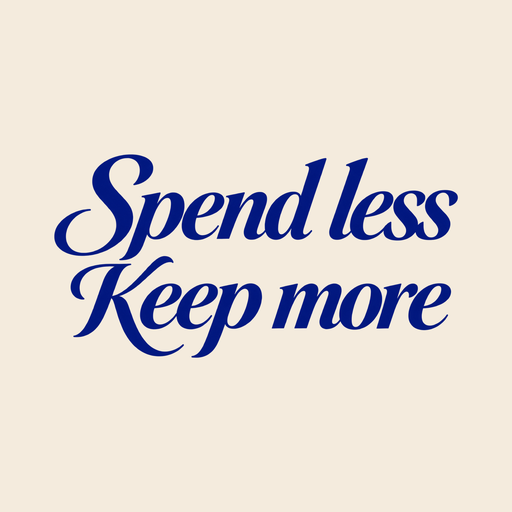
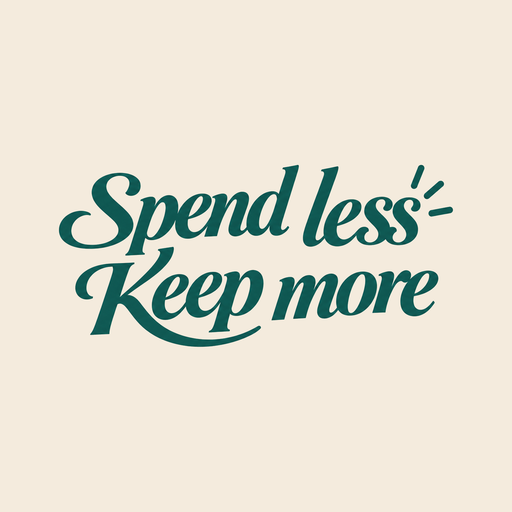
메인 컬러를 네이비(#02007D)에서 틸(#105753)로 전면 교체, 로고를 새 틸 워드마크로 변경
- tailwind primary 팔레트 교체: DEFAULT #105753, light #E2EBEA, dark #082B29
  (light/dark는 기존 네이비 팔레트와 동일한 비율로 새로 계산)
- 하드코딩된 헥스 컬러(#02007D/#01003D/#E3E2F8)를 쓰던 19개 파일 전부 새 컬러로 교체
  (아이콘 tint, 아바타 팔레트, 차트 기본색, ActivityIndicator 등)
- 새 로고 파일("보수가계부 메인 로고.png")에서 투명 배경 워드마크를 새로 추출해
  brand-tagline.png / brand-tagline-white.png, 앱 아이콘·스플래시·안드로이드
  적응형 아이콘·파비콘 세트를 전부 재생성 (로고 비율이 달라져 관련 파일들의
  가로세로 비율 상수도 619/1295로 갱신)

로그인 없이 접근 가능한 웰컴/로그인/회원가입/약관 페이지와 파비콘은 브라우저로 직접
렌더링해 확인했다. calendar/통계/예산/자산/설정/어드민 등 로그인 이후 화면은 프로덕션
API라 실제 로그인 없이 확인이 불가능해서, tailwind 토큰 치환과 각 파일의 하드코딩
컬러 치환 결과를 코드 레벨로 전수 확인하는 것으로 대신했다.

Claude-Session: https://claude.ai/code/session_0192u1Aw5YHBEf88JtvH6CKD

Changed region(s): [[0.0938, 0.2812, 0.9062, 0.7188]]

diff --git a/src/app/admin/(dashboard)/households/[id].tsx b/src/app/admin/(dashboard)/households/[id].tsx
@@ -14,7 +14,7 @@ import { addMonths, formatMonthLabel, toDateKey } from '@/lib/calendar';
 import { formatKrw, formatSignedKrw } from '@/lib/format';
 
 const ROLE_LABEL: Record<string, string> = { OWNER: '오너', MEMBER: '멤버' };
-const AVATAR_PALETTE = ['#02007D', '#E07A5F', '#2f9e44', '#3b82f6', '#a855f7', '#f59e0b'];
+const AVATAR_PALETTE = ['#105753', '#E07A5F', '#2f9e44', '#3b82f6', '#a855f7', '#f59e0b'];
 
 function avatarColor(seed: number) {
   return AVATAR_PALETTE[seed % AVATAR_PALETTE.length];
@@ -22,7 +22,7 @@ function avatarColor(seed: number) {
 
 function CategoryBar({ item, max }: { item: AdminCategoryTotal; max: number }) {
   const pct = max > 0 ? (item.total / max) * 100 : 0;
-  const barColor = item.categoryColor ?? (item.type === 'INCOME' ? '#2f9e44' : '#02007D');
+  const barColor = item.categoryColor ?? (item.type === 'INCOME' ? '#2f9e44' : '#105753');
   return (
     <View className="gap-1.5">
       <View className="flex-row items-baseline justify-between gap-2">
@@ -125,7 +125,7 @@ export default function AdminHouseholdDetailScreen() {
   if (isLoading || !data) {
     return (
       <View className="flex-1 items-center justify-center bg-slate-100">
-        <ActivityIndicator color="#01003D" />
+        <ActivityIndicator color="#082B29" />
       </View>
     );
   }
@@ -147,7 +147,7 @@ export default function AdminHouseholdDetailScreen() {
         <View className="gap-4 rounded-2xl bg-white p-5 shadow-sm">
           <View className="flex-row items-center gap-3">
             <View className="h-12 w-12 items-center justify-center rounded-full bg-primary-light">
-              <Ionicons name="home" size={20} color="#02007D" />
+              <Ionicons name="home" size={20} color="#105753" />
             </View>
             <View className="gap-0.5">
               <Text className="text-xl font-bold text-slate-900">{data.name}</Text>
@@ -207,7 +207,7 @@ export default function AdminHouseholdDetailScreen() {
             </View>
 
             {transactionsLoading ? (
-              <ActivityIndicator color="#01003D" />
+              <ActivityIndicator color="#082B29" />
             ) : (
               <CalendarGrid
                 year={year}

diff --git a/src/app/admin/(dashboard)/_layout.tsx b/src/app/admin/(dashboard)/_layout.tsx
@@ -9,7 +9,7 @@ import { useGoHome } from '@/lib/useGoHome';
 import { useAdminAuthStore } from '@/store/adminAuthStore';
 import { useAuthStore } from '@/store/authStore';
 
-const TAGLINE_ASPECT_RATIO = 803 / 1442;
+const TAGLINE_ASPECT_RATIO = 619 / 1295;
 
 const NAV: {
   href: '/admin' | '/admin/users' | '/admin/households' | '/admin/feature-requests';
@@ -91,7 +91,7 @@ export default function AdminDashboardLayout() {
                         key={item.href}
                         onPress={() => router.push(item.href)}
                         className={`flex-row items-center gap-1.5 rounded-full px-4 py-2 ${active ? 'bg-white' : ''}`}>
-                        <Ionicons name={item.icon} size={15} color={active ? '#01003D' : '#ffffffb3'} />
+                        <Ionicons name={item.icon} size={15} color={active ? '#082B29' : '#ffffffb3'} />
                         <Text className={`text-sm font-semibold ${active ? 'text-primary-dark' : 'text-white/70'}`}>
                           {item.label}
                         </Text>
@@ -154,7 +154,7 @@ export default function AdminDashboardLayout() {
                         router.push(item.href);
                       }}
                       className={`flex-row items-center gap-3 rounded-xl px-3 py-3 ${active ? 'bg-primary-light' : ''}`}>
-                      <Ionicons name={item.icon} size={18} color={active ? '#02007D' : '#64748b'} />
+                      <Ionicons name={item.icon} size={18} color={active ? '#105753' : '#64748b'} />
                       <Text className={`text-sm font-semibold ${active ? 'text-primary' : 'text-slate-700'}`}>
                         {item.label}
                       </Text>

diff --git a/src/app/(main)/statistics/month.tsx b/src/app/(main)/statistics/month.tsx
@@ -34,7 +34,7 @@ function buildLegend(categories: CategoryStat[]): LegendDatum[] {
       label: c.categoryName,
       amount: c.amount,
       value: c.amount,
-      color: c.color ?? '#02007D',
+      color: c.color ?? '#105753',
     }));
   }
   const top = sorted.slice(0, DONUT_SLICE_LIMIT);
@@ -46,7 +46,7 @@ function buildLegend(categories: CategoryStat[]): LegendDatum[] {
       label: c.categoryName,
       amount: c.amount,
       value: c.amount,
-      color: c.color ?? '#02007D',
+      color: c.color ?? '#105753',
     })),
     { key: 'other', categoryId: -1, label: '기타', amount: restAmount, value: restAmount, color: OTHER_COLOR },
   ];
@@ -213,7 +213,7 @@ export default function StatisticsMonthScreen() {
     for (const point of range?.months ?? []) {
       for (const cat of point.byParentCategory.filter((c) => c.type === 'EXPENSE')) {
         if (!names.has(cat.categoryId)) {
-          names.set(cat.categoryId, { name: cat.categoryName, color: cat.color ?? '#02007D' });
+          names.set(cat.categoryId, { name: cat.categoryName, color: cat.color ?? '#105753' });
         }
       }
     }
@@ -401,7 +401,7 @@ export default function StatisticsMonthScreen() {
                     className="flex-row items-center gap-2.5">
                     <View
                       className="h-2.5 w-2.5 rounded-full"
-                      style={{ backgroundColor: item.color ?? '#02007D' }}
+                      style={{ backgroundColor: item.color ?? '#105753' }}
                     />
                     <Text className="flex-1 text-sm text-slate-700 dark:text-slate-200" numberOfLines={1}>
                       {item.categoryName}

diff --git a/src/app/admin/(dashboard)/index.tsx b/src/app/admin/(dashboard)/index.tsx
@@ -9,7 +9,7 @@ import { formatKrw } from '@/lib/format';
 type StatColor = 'primary' | 'secondary' | 'income' | 'expense' | 'slate';
 
 const COLOR_MAP: Record<StatColor, { bg: string; icon: string; text: string }> = {
-  primary: { bg: '#E3E2F8', icon: '#02007D', text: '#01003D' },
+  primary: { bg: '#E2EBEA', icon: '#105753', text: '#082B29' },
   secondary: { bg: '#FBE7E0', icon: '#E07A5F', text: '#B85A40' },
   income: { bg: '#E4F5E9', icon: '#2f9e44', text: '#1f7a34' },
   expense: { bg: '#FBE9E9', icon: '#e03131', text: '#b42318' },
@@ -97,7 +97,7 @@ export default function AdminDashboardScreen() {
   if (isLoading || !stats) {
     return (
       <View className="flex-1 items-center justify-center bg-slate-100">
-        <ActivityIndicator color="#01003D" />
+        <ActivityIndicator color="#082B29" />
       </View>
     );
   }
@@ -147,7 +147,7 @@ export default function AdminDashboardScreen() {
             <TrendCard
               title="회원 증가"
               points={userGrowthPoints}
-              color="#02007D"
+              color="#105753"
               formatValue={(v) => `${Math.round(v).toLocaleString()}명`}
             />
             <TrendCard title="일별 수입" points={incomePoints} color="#2f9e44" formatValue={formatKrw} />

diff --git a/src/app/(main)/budget/index.tsx b/src/app/(main)/budget/index.tsx
@@ -155,7 +155,7 @@ export default function BudgetScreen() {
               setAddParentId(null);
             }}
             className="flex-row items-center gap-1 px-2 py-1">
-            <Ionicons name={isAddOpen ? 'remove-circle-outline' : 'add-circle-outline'} size={16} color="#02007D" />
+            <Ionicons name={isAddOpen ? 'remove-circle-outline' : 'add-circle-outline'} size={16} color="#105753" />
             <Text className="text-sm font-medium text-primary">{isAddOpen ? '닫기' : '카테고리 추가'}</Text>
           </Pressable>
         </View>
@@ -191,7 +191,7 @@ export default function BudgetScreen() {
               <>
                 <View className="flex-row items-center gap-1">
                   <Pressable onPress={() => setAddParentId(null)} className="py-1 pr-1">
-                    <Ionicons name="chevron-back" size={16} color="#02007D" />
+                    <Ionicons name="chevron-back" size={16} color="#105753" />
                   </Pressable>
                   <Text className="text-xs font-medium text-slate-500 dark:text-slate-400">
                     {parent.name}의 하위 카테고리를 선택하세요

diff --git a/src/app/admin/(dashboard)/households/index.tsx b/src/app/admin/(dashboard)/households/index.tsx
@@ -23,7 +23,7 @@ function HouseholdRow({ household }: { household: AdminHousehold }) {
       onPress={() => router.push(`/admin/households/${household.id}`)}
       className="flex-row items-center gap-4 rounded-2xl bg-white p-4 shadow-sm">
       <View className="h-11 w-11 items-center justify-center rounded-full bg-primary-light">
-        <Ionicons name="home" size={18} color="#02007D" />
+        <Ionicons name="home" size={18} color="#105753" />
       </View>
       <View className="min-w-0 flex-1 gap-0.5">
         <Text className="text-sm font-semibold text-slate-900" numberOfLines={1}>
@@ -54,7 +54,7 @@ export default function AdminHouseholdsScreen() {
   if (isLoading) {
     return (
       <View className="flex-1 items-center justify-center bg-slate-100">
-        <ActivityIndicator color="#01003D" />
+        <ActivityIndicator color="#082B29" />
       </View>
     );
   }

diff --git a/src/components/MobileHeader.tsx b/src/components/MobileHeader.tsx
@@ -6,7 +6,7 @@ import { NotificationBell } from '@/components/NotificationBell';
 import { TransactionSearchModal } from '@/features/transaction/TransactionSearchModal';
 import { useGoHome } from '@/lib/useGoHome';
 
-const TAGLINE_ASPECT_RATIO = 803 / 1442;
+const TAGLINE_ASPECT_RATIO = 619 / 1295;
 
 /** 모바일 상단 바 — 왼쪽 검색, 가운데 슬로건 로고, 오른쪽 알림 벨. 화면 이동은 하단 메뉴바
  * (BottomNav)가 맡는다. */
@@ -21,7 +21,7 @@ export function MobileHeader() {
           onPress={() => setSearchOpen(true)}
           hitSlop={8}
           className="h-10 w-10 items-center justify-center">
-          <Ionicons name="search-outline" size={22} color="#02007D" />
+          <Ionicons name="search-outline" size={22} color="#105753" />
         </Pressable>
         <Pressable onPress={goHome} hitSlop={8}>
           <Image

diff --git a/src/components/TopNav.tsx b/src/components/TopNav.tsx
@@ -44,7 +44,7 @@ export function TopNav() {
                 source={require('../../assets/marketing/brand-tagline.png')}
                 accessibilityLabel="BOSU Ledger — Spend less, Keep more"
                 resizeMode="contain"
-                style={{ width: 150, height: 150 * (803 / 1442) }}
+                style={{ width: 150, height: 150 * (619 / 1295) }}
               />
             </Pressable>
           </Link>
@@ -60,7 +60,7 @@ export function TopNav() {
               onPress={() => setSearchOpen(true)}
               hitSlop={8}
               className="h-10 w-10 items-center justify-center">
-              <Ionicons name="search-outline" size={20} color="#02007D" />
+              <Ionicons name="search-outline" size={20} color="#105753" />
             </Pressable>
             <NotificationBell />
           </View>

diff --git a/src/app/admin/(dashboard)/users/[id].tsx b/src/app/admin/(dashboard)/users/[id].tsx
@@ -7,7 +7,7 @@ import { useAdminUserDetail, useBlockUser, useDeleteAdminUser, useUnblockUser } 
 import { formatKrw } from '@/lib/format';
 
 const ROLE_LABEL: Record<string, string> = { OWNER: '오너', MEMBER: '멤버' };
-const AVATAR_PALETTE = ['#02007D', '#E07A5F', '#2f9e44', '#3b82f6', '#a855f7', '#f59e0b'];
+const AVATAR_PALETTE = ['#105753', '#E07A5F', '#2f9e44', '#3b82f6', '#a855f7', '#f59e0b'];
 
 function avatarColor(seed: number) {
   return AVATAR_PALETTE[seed % AVATAR_PALETTE.length];
@@ -25,7 +25,7 @@ export default function AdminUserDetailScreen() {
   if (isLoading || !user) {
     return (
       <View className="flex-1 items-center justify-center bg-slate-100">
-        <ActivityIndicator color="#01003D" />
+        <ActivityIndicator color="#082B29" />
       </View>
     );
   }

diff --git a/src/app/admin/(dashboard)/users/index.tsx b/src/app/admin/(dashboard)/users/index.tsx
@@ -7,7 +7,7 @@ import { type AdminUser, useAdminUsers, useBlockUser, useDeleteAdminUser, useUnb
 import { useIsDesktop } from '@/lib/responsive';
 
 const ROLE_LABEL: Record<string, string> = { OWNER: '오너', MEMBER: '멤버' };
-const AVATAR_PALETTE = ['#02007D', '#E07A5F', '#2f9e44', '#3b82f6', '#a855f7', '#f59e0b'];
+const AVATAR_PALETTE = ['#105753', '#E07A5F', '#2f9e44', '#3b82f6', '#a855f7', '#f59e0b'];
 
 function avatarColor(seed: number) {
   return AVATAR_PALETTE[seed % AVATAR_PALETTE.length];
@@ -123,7 +123,7 @@ export default function AdminUsersScreen() {
   if (isLoading) {
     return (
       <View className="flex-1 items-center justify-center bg-slate-100">
-        <ActivityIndicator color="#01003D" />
+        <ActivityIndicator color="#082B29" />
       </View>
     );
   }

diff --git a/src/components/welcome/HouseholdConnect.tsx b/src/components/welcome/HouseholdConnect.tsx
@@ -19,7 +19,7 @@ export function HouseholdConnect() {
             width: 44,
             height: 2,
             marginLeft: -22,
-            backgroundColor: '#E3E2F8',
+            backgroundColor: '#E2EBEA',
             opacity: inView ? 1 : 0,
             // @ts-expect-error -- web-only CSS transition, passed straight through by RNW.
             transitionProperty: 'opacity',
@@ -38,7 +38,7 @@ export function HouseholdConnect() {
             width: 20,
             height: 20,
             borderRadius: 10,
-            backgroundColor: '#02007D',
+            backgroundColor: '#105753',
             transform: [{ translateX: inView ? 0 : -20 }],
           },
           dotTransition,

diff --git a/src/features/transaction/TransactionSearchModal.tsx b/src/features/transaction/TransactionSearchModal.tsx
@@ -81,7 +81,7 @@ export function TransactionSearchModal({ visible, onClose }: { visible: boolean;
                 className={`flex-row items-center gap-1.5 rounded-full border px-3 py-1.5 ${
                   dateFilter ? 'border-primary bg-primary-light' : 'border-slate-200 dark:border-slate-700'
                 }`}>
-                <Ionicons name="calendar-outline" size={14} color={dateFilter ? '#02007D' : '#64748b'} />
+                <Ionicons name="calendar-outline" size={14} color={dateFilter ? '#105753' : '#64748b'} />
                 <Text
                   className={`text-xs font-medium ${
                     dateFilter ? 'text-primary' : 'text-slate-500 dark:text-slate-400'
